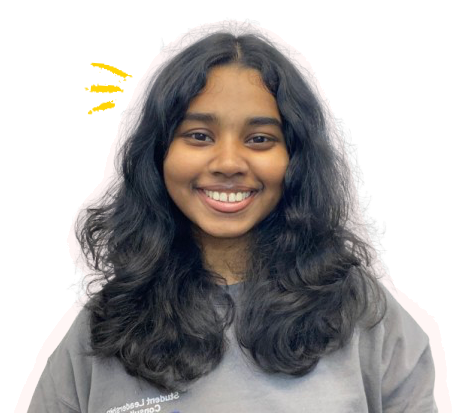
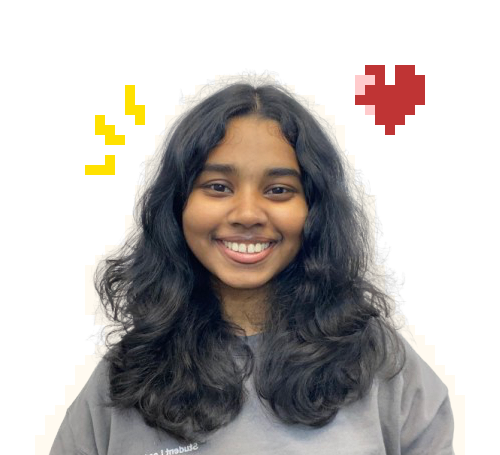
aesthetic changes + descriptions

diff --git a/index.html b/index.html
@@ -28,7 +28,7 @@
 
             <h1>Links</h1>
             - - - - - - - - - - - - - - - - - - - -
-            <header>Email</header>
+            <header><a href="mailto:soffie05paul@gmail.com" target="_blank">Email</a></header>
             <header>Resumé</header>
             <header><a href="https://www.linkedin.com/in/soffie-paul" target="_blank">LinkedIn</a></header>
             <header><a href="https://www.github.com/soffie-chan" target= "_blank">GitHub</a></header>
@@ -39,11 +39,18 @@
         <div id="content">
             <header id="aboutme">About Me</header>
             -----------------
-            <p>I'm a junior at the University of Delaware, double majoring in Cognitive Science and
-                Game Studies. I'm also minoring in Computer Science. In Cognitive Science, I specialize in
+            <p>I'm a junior student at the University of Delaware, double majoring in Cognitive Science and
+                Game Studies. I also minor in Computer Science. In Cognitive Science, I specialize in
                 Computer Science, Mathematics, and Logic. :)
             </p>
-            <p>In my free time, you'll find me... busy. HEHE.
+            <p>In my free time, you'll find me gaming, drawing, or devouring a mean chicken shawarma.
+            </p>
+            <p id="Fun Facts!">Fun Facts!</p>
+            <p>
+                - I'm an international student from Andhra Pradesh, India.
+                - I can name the first hundred elements of the periodic table.
+                - I have a collection of Pringles cans (11 and counting!)
+                - This website was made from scratch. It's also my first website ever!
             </p>
 
             <br>
@@ -51,7 +58,10 @@
             -----------------
             <p>I see myself committed to researching the nature and functioning of the human mind. I hope
                 to utilize my knowledge of cognition to develop impactful video games that serve to help, 
-                educate, and inform players of important concepts.
+                educate, and inform players of important topics that aren't always well-addressed in society.
+                Currently, I am working on a game that reflects the fragility of modern-day beauty standards.
+                I hope to invest my creative and technical skills in a profession that rewards me with the 
+                knowledge that my ideas helped someone understand something new about themselves and the world.
             </p>
 
             <br>
@@ -69,7 +79,7 @@
                 </div>
             </div>
             <p id="description"> 
-                Still working on it!
+                Administrating Discord server of 300+ computer science students.
             </p>
 
             <br>
@@ -78,12 +88,13 @@
             <img id="titleimage" src="css stuff/images/test.png" alt="yoshi">
                 <div class="words">
                     <h4 id="jobtitle">Resident Advisor (RA)</h4>
-                    <p id="years">June - Present</p>
+                    <p id="years">June 2025- Present</p>
                     <p id="jobdesc">University of Delaware</p>
                 </div>
             </div>
             <p id="description"> 
-                Still working on it!
+                Overlooking a dormitory of 10 freshman students,
+                interacting with students to assist them with university life.
             </p>
 
             <br>
@@ -130,14 +141,43 @@
             <img id="titleimage" src="css stuff/images/cherrim-sunny.gif" alt="sunny cherrim">
                 <div class="words">
                     <h4 id="jobtitle">Cherrim Bloom!</h4>
-                    <p id="years">October 2024 - May 2025</p>
+                    <p id="years">April 2024 - May 2024</p>
                     <p id="jobdesc">Team: Sophia Zhang, Soffie Paul</p>
                 </div>
             </div>
             <p id="description"> 
-                Working on it!
+                Inspired by the game 'Lights Out', 'Cherrim Bloom!' is a puzzle game where you click squares in a pattern to make
+                the Cherrims bloom. It features a resizable grid and light-pattern change for user customization.
+                <br> <br>
+                Sophia Zhang and I share our love for Pokémon, which we implemented as a theme for this project. 
+                Sophia did the artwork with implemented patterns, and I worked on foundational code and formatting. I'm so grateful 
+                to call this my first team project in a computer science course and even more so with such a talented teammate!
+                <br>
+                <br>
+                <a class="links" href= "https://ud-s24-cisc181.github.io/final-project-starrytraitor/" target="_blank">Click here to play!</a>
             </p>
-
+            <br>
+             <div class="container">
+            <img id="titleimage" src="css stuff/images/cherrim-sunny.gif" alt="sunny cherrim">
+                <div class="words">
+                    <h4 id="jobtitle">Digital Rhetoric Blog Posts</h4>
+                    <p id="years">February 2025 - May 2025</p>
+                    <p id="jobdesc">Soffie Paul</p>
+                </div>
+            </div>
+            <p id="description"> 
+                Paired with a compilation of Instagram carousels to advertize the blog,
+                I have written blog posts to inform, critically analyze, and share personal opinions
+                on different aspects of video games to the reader as part of an English course.
+                <br>
+                Click any of the links to read the posts.
+                <br><br>
+                <a class="links" href= "https://mmcguire353.wixsite.com/digitalrhetoric/post/videogames-and-technology-are-more-inaccessible-than-you-think" target="_blank">Video Games and Technology Are More Inaccessible Than You Think</a>
+                <br><br>
+                <a class="links" href= "https://mmcguire353.wixsite.com/digitalrhetoric/post/the-objectification-of-women-in-video-games" target="_blank">The Objectification of Women in Video Games</a>
+                <br><br>
+                <a class="links" href= "https://mmcguire353.wixsite.com/digitalrhetoric/post/video-games-and-mental-health-just-pixels" target="_blank">Video Games and Mental Health - Just Pixels?</a>
+            </p>
             <br>
             <header id="samples">Creative Samples</header>
             -----------------
@@ -154,15 +194,20 @@
                 <div class="words">
                     <h4 id="jobtitle">Creative and Technical Lead</h4>
                     <p id="years">April 2025 - Present</p>
-                    <p id="jobdesc">Cognitive Science Association</p>
+                    <p id="jobdesc">Cognitive Science Association @ UD</p>
                 </div>
             </div>
             <p id="description"> 
-                Working on it!
+                Designed the CGSA logo,
+                managing the official student organization webpage.
+                
             </p>
 
             <br>
+
+            
             <div class="container">
+            <img id="titleimage" src="css stuff/images/cgsa logo.jpeg" alt="cgsa logo">
                 <div class="words">
                     <h4 id="jobtitle">Dean's List (x3)</h4>
                     <p id="years">Spring 2024 - Spring 2025</p>
@@ -171,6 +216,19 @@
             </div>
             <p id="description"> 
                 Academic achievement for earning a 3.5 GPA or higher within a semester.
+            </p>
+
+            <br>
+            <div class="container">
+            <img id="titleimage" src="css stuff/images/cgsa logo.jpeg" alt="cgsa logo">
+                <div class="words">
+                    <h4 id="jobtitle">Honorable Mention - International Student Essay Contest</h4>
+                    <p id="years">November 2024</p>
+                    <p id="jobdesc">Center for Global Programs & Services @ UD</p>
+                </div>
+            </div>
+            <p id="description"> 
+                Achievement for impactful writing on the life of an international student within a 600-word essay.
             </p>
 
             <br>

diff --git a/css stuff/styles.css b/css stuff/styles.css
@@ -19,7 +19,8 @@ html{
 
 body {
     /*Background color*/
-    background-color: rgb(240, 209, 98);
+    /*background-color: rgb(240, 209, 98);*/
+    background-image: url("images/webpagebg.jpg");
 
     #titles{
         display:flex;
@@ -31,8 +32,11 @@ body {
         color: floralwhite;
         text-shadow: 4px 4px 0px #010000, 2px 3px 0px #010000, 4px 5px 0px #010000, 4px 6px 0px #010000;
         background-color: rgb(191, 52, 52);
-        width: 320px;
+        width: 340px;
         margin:auto;
+        border-bottom: 7.5px solid black;
+        border-right: 7.5px solid black;
+        border-radius: 26px;
     }
 
     /*The "I'm Soffie" line - extra things*/
@@ -50,8 +54,10 @@ body {
         min-width: 500px;
         background-color: rgb(191, 52, 52);
         margin:auto;
-        width: 520px;
-
+        width: 540px;
+        border-bottom: 7.5px solid black;
+        border-right: 7.5px solid black;
+        border-radius: 26px;
     }
 
     /*my picture*/
@@ -87,14 +93,17 @@ body {
         color: floralwhite;
         text-shadow: 4px 4px 0px #010000, 2px 3px 0px #010000, 4px 5px 0px #010000, 4px 6px 0px #010000;
         font-size: 110%;
+        border-bottom: 7.5px solid black;
+        border-right: 7.5px solid black;
 
         /*Box*/
         float:left;
         height:960px;
         padding:40px;
         margin-left:75px;
+        margin-right: 40px;
         background-color: rgb(191, 52, 52);
-        border: 4px solid black;
+        /*border: 4px solid black;*/
 
         header:hover{
             color: rgb(240, 209, 98);
@@ -178,8 +187,16 @@ body {
             flex-direction: column;
             justify-content: flex-start;
         }
+        .links{
+            color:rgb(240, 209, 98);
+            font-size: 1.8vw;
+        }
+        .links:hover{
+            color:rgb(191, 52, 52)
+        }
 
     }
+    
 
     /*Box's scroller*/
     #content.scroller{
